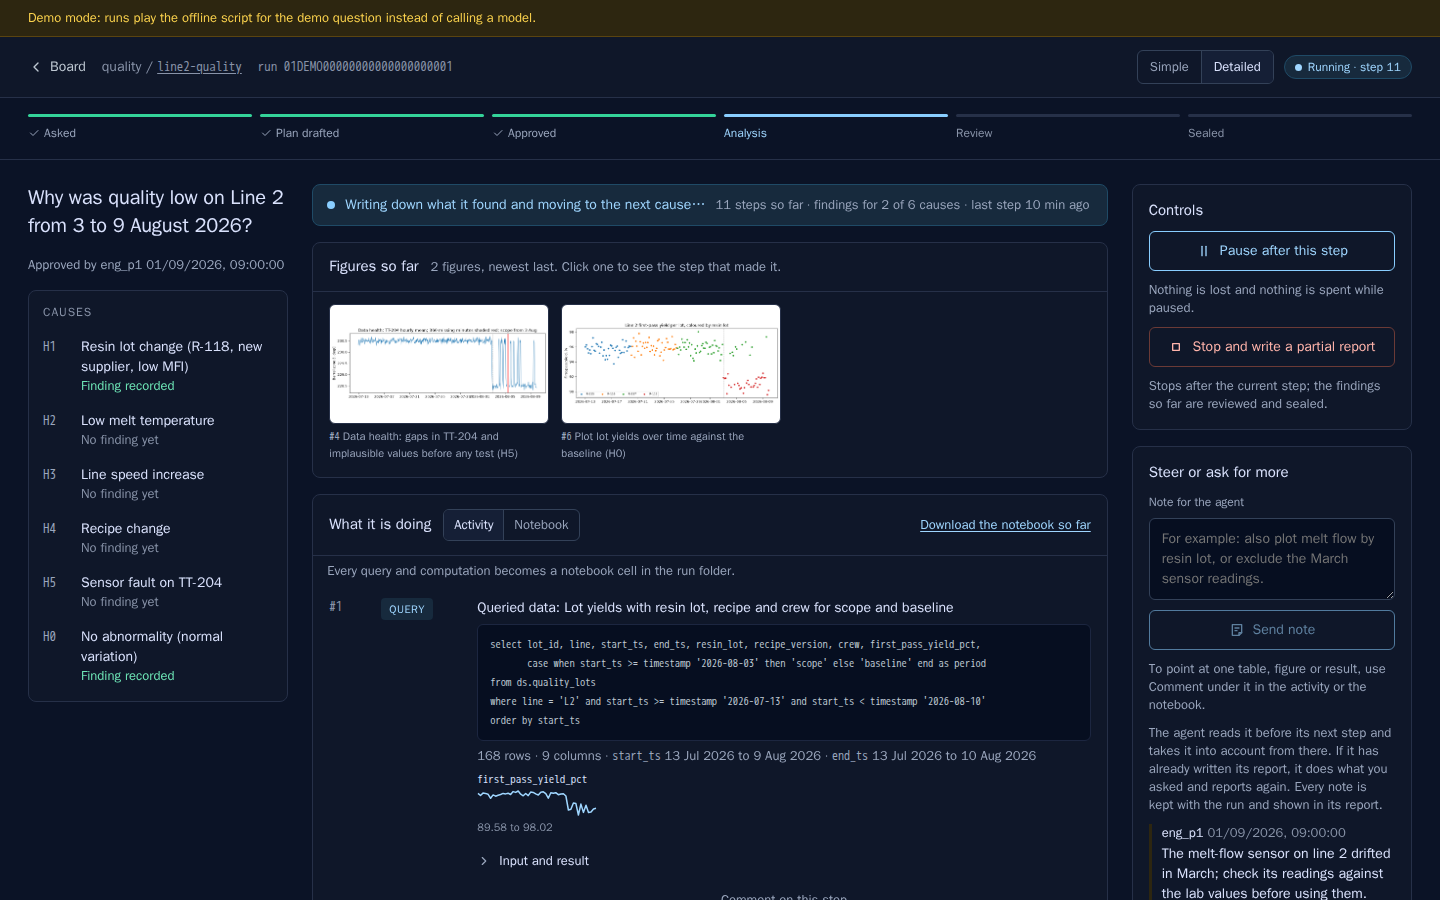
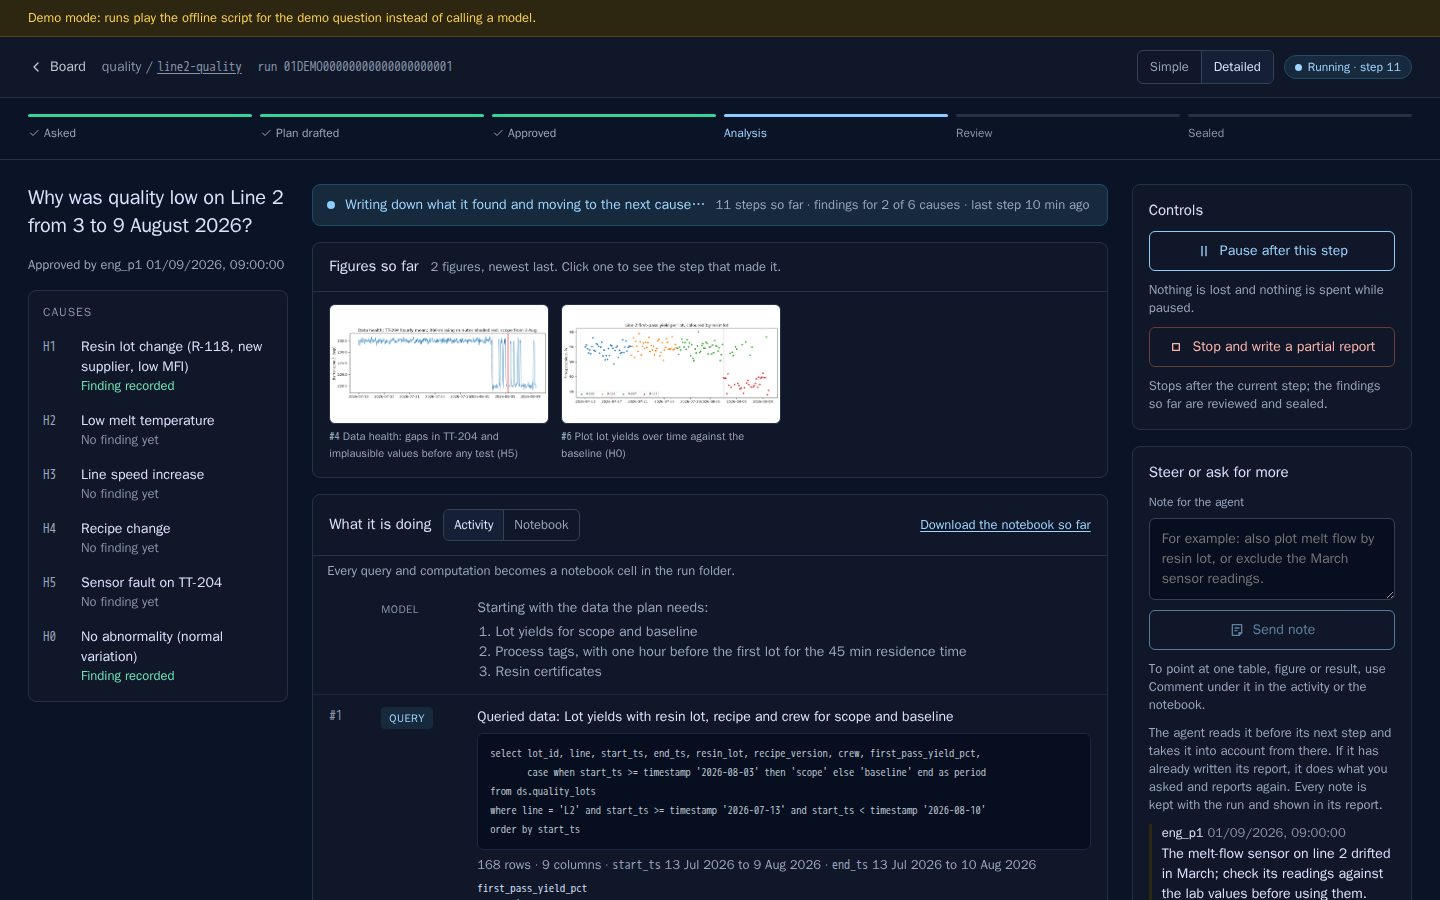
PA-32: Render the agent's markdown and fold debugging steps in the running view (#42)
Task: PA-32 https://kunla.lab.spikinglabs.com/t/SL-PA-32

Claude-Session: https://claude.ai/code/session_01AeC2HbgbeezipGQh5CWY3L

diff --git a/web/src/components/StepList.tsx b/web/src/components/StepList.tsx
@@ -1,4 +1,4 @@
-import { useEffect, useState } from "react";
+import { useEffect, useState, type ReactNode } from "react";
 import type { Step } from "../api";
 import { Code, Collapsible } from "./bits";
 import { QueryPreviewView, StepFigures } from "./Visuals";
@@ -76,27 +76,32 @@ export default function StepList({
   const shown = steps.filter((s) => s.type !== "model" || (s.text && s.text.trim()));
   if (!shown.length && !live) return <p className="muted pad">No steps recorded.</p>;
   let n = 0;
-  return (
-    <ol className="log">
-      {shown.map((s, i) => {
+  const nums = shown.map((s) => (s.type === "tool" ? ++n : n));
+  const items = groupDebugging(shown);
+  const row = (i: number) => {
+        const s = shown[i];
         const kind = kindOf(s);
-        if (s.type === "tool") n += 1;
-        const num = n;
+        const num = nums[i];
         const sql = typeof s.input?.sql === "string" ? (s.input.sql as string).trim() : null;
         const code = typeof s.input?.code === "string" ? (s.input.code as string) : null;
         return (
           <li
             key={i}
-            id={s.type === "tool" && runId ? `step-${n}` : undefined}
+            id={s.type === "tool" && runId ? `step-${num}` : undefined}
             className={`log-row ${s.is_error ? "err" : ""} ${kind === "note" || kind === "steer" ? kind : ""}`}
           >
-            <span className="mono faint small">{s.type === "tool" ? `#${n}` : ""}</span>
+            <span className="mono faint small">{s.type === "tool" ? `#${num}` : ""}</span>
             <span className={`kind k-${kind}`}>
               {simple ? (SIMPLE_KIND[kind] ?? kind) : kind === "note" ? "model" : kind === "steer" ? "person" : kind}
             </span>
             <div className="log-body">
               <div className={kind === "note" ? "muted" : kind === "steer" ? "steer-text" : ""}>
-                {describe(s)}
+                {s.type === "model" && s.html ? (
+                  // Sanitised on the server (safehtml.py), the same way as the conclusion.
+                  <div className="step-md" dangerouslySetInnerHTML={{ __html: s.html }} />
+                ) : (
+                  describe(s)
+                )}
                 {s.is_error && (
                   <>
                     {" "}
@@ -137,7 +142,18 @@ export default function StepList({
             </div>
           </li>
         );
-      })}
+  };
+  return (
+    <ol className="log">
+      {items.map((it) =>
+        typeof it === "number" ? (
+          row(it)
+        ) : (
+          <DebugGroup key={`g${it[0]}`} rows={it} steps={shown} nums={nums} simple={simple} working={live && it[it.length - 1] === shown.length - 1}>
+            {it.map(row)}
+          </DebugGroup>
+        ),
+      )}
       {live && (
         <li className="log-live" aria-live="polite">
           <span className="live-dot" aria-hidden="true" />
@@ -145,6 +161,71 @@ export default function StepList({
         </li>
       )}
     </ol>
+  );
+}
+
+/** Indexes of the steps, with each stretch of debugging as one group: a step that did not work, and what follows it
+ * until a step works again (more failed attempts and the agent's notes on fixing them). A person's note ends a
+ * stretch, so it is never hidden. */
+export function groupDebugging(steps: Step[]): (number | number[])[] {
+  const out: (number | number[])[] = [];
+  let group: number[] | null = null;
+  steps.forEach((s, i) => {
+    if (group && (s.type === "model" || (s.type === "tool" && s.is_error))) group.push(i);
+    else if (s.type === "tool" && s.is_error) out.push((group = [i]));
+    else {
+      group = null;
+      out.push(i);
+    }
+  });
+  // Notes the agent wrote after its last failed attempt belong to the steps that follow, not to the debugging.
+  return out.flatMap((g) => {
+    if (typeof g === "number") return [g];
+    let end = g.length;
+    while (end > 1 && steps[g[end - 1]].type === "model") end -= 1;
+    return [g.slice(0, end), ...g.slice(end)];
+  });
+}
+
+/** A stretch of debugging, folded to one line until someone opens it: most readers only need to know that a step
+ * failed and the agent fixed it; the attempts themselves are for advanced users. */
+function DebugGroup({
+  rows,
+  steps,
+  nums,
+  simple,
+  working,
+  children,
+}: {
+  rows: number[];
+  steps: Step[];
+  nums: number[];
+  simple: boolean;
+  working: boolean;
+  children: ReactNode;
+}) {
+  const [open, setOpen] = useState(false);
+  const failed = rows.filter((i) => steps[i].type === "tool");
+  const first = nums[failed[0]];
+  const last = nums[failed[failed.length - 1]];
+  const label = `${failed.length} attempt${failed.length === 1 ? "" : "s"} that did not work`;
+  return (
+    <li className={`log-debug ${open ? "open" : ""}`}>
+      <div className="log-row debug-head">
+        <span className="mono faint small">{first === last ? `#${first}` : `#${first}–${last}`}</span>
+        <span className="kind k-debug">{simple ? "retry" : "debug"}</span>
+        <div className="log-body">
+          <div className="muted">
+            {label}
+            {working ? ". The agent is fixing it now." : ". The agent fixed it and carried on."}
+          </div>
+          <button type="button" className="link small" aria-expanded={open} onClick={() => setOpen(!open)}>
+            {open ? "Hide the debugging" : `Show the debugging (${rows.length} step${rows.length === 1 ? "" : "s"})`}
+          </button>
+        </div>
+      </div>
+      {open && <ol className="log debug-body">{children}</ol>}
+    </li>
   );
 }
 

diff --git a/web/src/styles.css b/web/src/styles.css
@@ -682,6 +682,26 @@ iframe.report { width: 100%; height: 75vh; border: 1px solid var(--line); border
 .nbmd p { margin: 6px 0; }
 .nb-h { font-size: 17px; margin: 14px 0 6px; }
 
+/* A stretch of failed attempts in the activity log, folded until someone opens it. */
+.log-debug { list-style: none; border-bottom: 1px solid var(--line-soft); }
+.log-debug .debug-head { border-bottom: 0; }
+.log-debug .debug-head .link { align-self: start; }
+.log-debug.open .debug-body { margin: 0 0 8px 16px; border-left: 2px solid var(--line); }
+.kind.k-debug { background: var(--panel-2); color: var(--muted); }
+
+/* The model's own text in the activity log, rendered from markdown. */
+.step-md > :first-child { margin-top: 0; }
+.step-md > :last-child { margin-bottom: 0; }
+.step-md p, .step-md ul, .step-md ol, .step-md pre, .step-md blockquote, .step-md table { margin: 4px 0; }
+.step-md ul, .step-md ol { padding-left: 1.3em; }
+.step-md h1, .step-md h2, .step-md h3, .step-md h4, .step-md h5, .step-md h6 { font-size: 15px; margin: 8px 0 2px; color: var(--text); }
+.step-md code { font-family: var(--mono); font-size: 0.92em; background: var(--panel-2); padding: 0 4px; border-radius: 3px; }
+.step-md pre { overflow-x: auto; background: var(--panel-2); padding: 6px 8px; border-radius: 4px; }
+.step-md pre code { background: none; padding: 0; }
+.step-md blockquote { border-left: 3px solid var(--line); padding-left: 8px; }
+.step-md table { border-collapse: collapse; font-size: 13px; display: block; overflow-x: auto; }
+.step-md th, .step-md td { border-bottom: 1px solid var(--line); padding: 2px 8px; text-align: left; }
+
 /* "Comment on this step" under each step of the activity log, while the agent takes notes. */
 .log-body .step-comment { display: block; margin-top: 4px; color: var(--muted); }
 .log-body .step-comment:hover:not(:disabled) { color: var(--accent-text); }

diff --git a/web/src/api.ts b/web/src/api.ts
@@ -384,6 +384,8 @@ export interface Step {
   model?: string;
   stop_reason?: string;
   text?: string;
+  /** A model step's markdown as sanitised HTML (made by the server, like the conclusion). */
+  html?: string;
   usage?: { input_tokens: number; output_tokens: number };
 }
 

diff --git a/src/alchemist/demo/script.py b/src/alchemist/demo/script.py
@@ -32,7 +32,9 @@ PLAN = {
 }
 
 PLAN_TURNS = [
-    [("search_catalog", {"query": "line 2 first pass yield lots resin"}),
+    [("text", "To plan this I need to know **which data covers Line 2** and what the plant already knows about low yield:\n\n"
+              "- lot yields and resin lots\n- historian tags for melt temperature and line speed\n- past investigations and the FMEA"),
+     ("search_catalog", {"query": "line 2 first pass yield lots resin"}),
      ("search_catalog", {"query": "line 2 historian barrel temperature line speed"}),
      ("search_knowledge", {"query": "low first-pass yield line 2 causes voids"})],
     [("search_knowledge", {"query": "melt temperature window resin MFI"})],
@@ -120,7 +122,9 @@ print("non-R-118 lots in scope:", int((in_scope.resin_lot != "R-118").sum()))"""
 FPY = "first_pass_yield_pct"
 
 ANALYSIS_TURNS = [
-    [("run_query", {"sql": Q_LOTS, "purpose": "Lot yields with resin lot, recipe and crew for scope and baseline"}),
+    [("text", "Starting with the data the plan needs:\n\n1. **Lot yields** for scope and baseline\n"
+              "2. **Process tags**, with one hour before the first lot for the 45 min residence time\n3. **Resin certificates**"),
+     ("run_query", {"sql": Q_LOTS, "purpose": "Lot yields with resin lot, recipe and crew for scope and baseline"}),
      ("run_query", {"sql": Q_PROC, "purpose": "One-minute process tags, including one hour before the first lot"}),
      ("run_query", {"sql": Q_RESIN, "purpose": "Resin lot certificates"})],
     [("run_python", {"code": HEALTH, "purpose": "Data health: gaps in TT-204 and implausible values before any test (H5)"}),
@@ -135,7 +139,9 @@ ANALYSIS_TURNS = [
     [("record_finding", {"hypothesis": "H1", "statement": "How much lower first-pass yield was on R-118 lots than on other lots in the same week.",
                          "value_expression": "round(-pg_p3['diff'], 2)", "unit": "percentage points", "verdict": "supported",
                          "confidence": "high", "evidence": ["q1", "q3", "FMEA-L2", "PI-2025-07"]})],
-    [("penguineer_align", {"data": "q2", "lots": "q1", "tags": ["barrel_temp_c", "line_speed_mpm"], "dead_time_min": 45}),
+    [("text", "R-118 lots explain most of the drop. Next, the **mechanism** and the other causes:\n\n"
+              "- align `barrel_temp_c` to lots with the 45 min dead time (H2)\n- compare line speed (H3) and recipe versions (H4)"),
+     ("penguineer_align", {"data": "q2", "lots": "q1", "tags": ["barrel_temp_c", "line_speed_mpm"], "dead_time_min": 45}),
      ("penguineer_compare", {"data": "p4", "value": "barrel_temp_c", "group": "resin_lot", "a": "R-118", "where": ["period=scope"]}),
      ("penguineer_compare", {"data": "p4", "value": "line_speed_mpm", "group": "period", "a": "scope", "b": "baseline"}),
      ("run_python", {"code": ALIGNED, "purpose": "Plot yield against aligned melt temperature; count new recipe versions (H2, H4)"})],
@@ -151,7 +157,10 @@ ANALYSIS_TURNS = [
      ("record_finding", {"hypothesis": "H5", "statement": "Critical data faults penguineer's data health check found on the process tags: one gap in TT-204 on 5 August, too short to explain a week-long drop.",
                          "value_expression": "pg_p1['counts']['critical']", "unit": "critical data faults", "verdict": "refuted",
                          "confidence": "high", "evidence": ["q2", "work/penguineer/p1/runs/health.json"]})],
-    [("run_python", {"code": CREW_CHECK, "purpose": "Check the R-118 effect holds within each crew (confounding by crew)"})],
+    [("text", "One more check before the review: does the **R-118 effect hold within each crew**?"),
+     ("run_query", {"sql": "select lot_id, crew_id from ds.quality_lots where line = 'L2'",
+                    "purpose": "Crew of each Line 2 lot"}),
+     ("run_python", {"code": CREW_CHECK, "purpose": "Check the R-118 effect holds within each crew (confounding by crew)"})],
     [("finish_analysis", {"summary": "R-118 lots explain the yield drop; melt temperature ran low on those lots, consistent with low MFI. Speed and recipe unchanged; TT-204 gap on 5 Aug excluded."})],
     [("build_report", {
         "title": "Line 2 first-pass yield, 3 to 9 August 2026",

diff --git a/src/alchemist/agent.py b/src/alchemist/agent.py
@@ -4,6 +4,24 @@ Alchemist supplies the tools (catalog, SQL, the notebook, knowledge) and the run
 from settings, the transcript in the run folder, checkpoints, pauses and steering notes.
 """
 
-from penguineer.agent.loop import Budget, Model, ScriptedModel, ScriptedText, ToolOutput, run_loop, strip_images
+from penguineer.agent.loop import Budget, Model, ScriptedText, ToolOutput, run_loop, strip_images
+from penguineer.agent.loop import ScriptedModel as _ScriptedModel
 
 __all__ = ["Budget", "Model", "ScriptedModel", "ScriptedText", "ToolOutput", "run_loop", "strip_images"]
+
+
+class ScriptedModel(_ScriptedModel):
+    """penguineer's scripted model, where a turn may also hold `("text", markdown)`: what the model says before its tool
+    calls, as a real model does, so the offline demo shows the agent's notes too."""
+
+    def create(self, *, system: str, tools: list[dict], messages: list[dict]) -> dict:
+        if self.i >= len(self.turns):
+            return super().create(system=system, tools=tools, messages=messages)
+        turn = self.turns[self.i]
+        self.i += 1
+        content = [{"type": "text", "text": inp} if name == "text" else
+                   {"type": "tool_use", "id": f"toolu_s{self.i}_{k}", "name": name, "input": inp}
+                   for k, (name, inp) in enumerate(turn)]
+        calls = any(c["type"] == "tool_use" for c in content)
+        return {"content": content, "stop_reason": "tool_use" if calls else "end_turn",
+                "usage": {"input_tokens": 0, "output_tokens": 0}}

diff --git a/tests/test_server.py b/tests/test_server.py
@@ -325,3 +325,23 @@ def test_snapshot_paths_stay_in_the_run(client, svc, finished):
     finally:
         f.write_text(before)
         f.chmod(mode)
+
+
+def test_model_steps_render_markdown_safely(tmp_path):
+    """Model text in the activity log comes with sanitised HTML: markdown renders, injected HTML does not."""
+    import json as _json
+
+    from alchemist.api.runs import _transcript_steps
+
+    text = ("## Plan\n\n- check **R-118**\n- compare `temp`\n\n| a | b |\n|---|---|\n| 1 | 2 |\n\n"
+            "<script>fetch('/api/admin')</script><img src=x onerror=alert(1)> [x](javascript:alert(1))")
+    t = tmp_path / "transcript.jsonl"
+    t.write_text(_json.dumps({"at": 1, "model": "m", "message": {"content": [{"type": "text", "text": text}]}}) + "\n"
+                 + _json.dumps({"at": 2, "model": "m", "message": {"content": []}}) + "\n")
+    first, empty = _transcript_steps(t)
+    assert first["text"] == text  # the raw text stays for notes and copying
+    html = first["html"]
+    assert "<h2>Plan</h2>" in html and "<li>check <strong>R-118</strong></li>" in html and "<code>temp</code>" in html
+    assert "<table>" in html
+    assert "<script" not in html and "onerror" not in html and "<img" not in html and "javascript:" not in html
+    assert empty["html"] == ""

diff --git a/src/alchemist/api/runs.py b/src/alchemist/api/runs.py
@@ -73,6 +73,9 @@ def _summary(svc, me, row: dict) -> dict:
     return out
 
 
+STEP_MARKDOWN = ["tables", "fenced_code", "sane_lists"]
+
+
 def _transcript_steps(path) -> list[dict]:
     """Model turns and tool calls from a transcript, in the shape the live view shows."""
     p = as_path(path)
@@ -95,8 +98,12 @@ def _transcript_steps(path) -> list[dict]:
                           **({"meta": e["meta"]} if e.get("meta") else {})})
         elif "model" in e:
             texts = [b.get("text", "") for b in e["message"]["content"] if b.get("type") == "text"]
+            text = "\n".join(t for t in texts if t)[:2000]
+            # The model writes markdown; `html` is it rendered and sanitised like the conclusion, so the page can show
+            # headings, lists and tables without trusting model text as HTML.
             steps.append({"at": e["at"], "type": "model", "model": e["model"], "stop_reason": e.get("stop_reason"),
-                          "usage": e.get("usage"), "text": "\n".join(t for t in texts if t)[:2000]})
+                          "usage": e.get("usage"), "text": text,
+                          "html": markdown_html(text, extensions=STEP_MARKDOWN) if text.strip() else ""})
     return steps
 
 

diff --git a/docs/ui-tour.md b/docs/ui-tour.md
@@ -64,7 +64,7 @@ Every question in the workspace sits in the column of its stage. A drafted plan 
 
 ### Running
 
-Each query, computation and finding appears as it happens, with the causes that already have findings and the run's limits. Pause and Stop each say what they will do. Steer the agent leaves it a note, such as a sensor you know drifted; the agent reads it before its next step, and each note shows whether it has been read.
+Each query, computation and finding appears as it happens, with the causes that already have findings and the run's limits. What the agent says between steps is shown as formatted text (lists, tables, code), cleaned the same way as the conclusion. Pause and Stop each say what they will do. Steer the agent leaves it a note, such as a sensor you know drifted; the agent reads it before its next step, and each note shows whether it has been read.
 
 ![Running](assets/ui/running-light.png#only-light)
 ![Running](assets/ui/running-dark.png#only-dark)
@@ -163,6 +163,16 @@ Models, prompt hash, packages and the seal; verify it or download the run folder
 
 ![Report: Provenance](assets/ui/report-provenance-light.png#only-light)
 ![Report: Provenance](assets/ui/report-provenance-dark.png#only-dark)
+
+### Agent steps and debugging
+
+When a step does not work (a query naming a column that does not exist, say), the agent sees the error and tries again. Those attempts are folded into one line, here and on the running page, so the story stays readable; Show the debugging opens them for advanced users.
+
+![Agent steps with a failed attempt folded](assets/ui/report-steps-debugging-light.png#only-light)
+![Agent steps with a failed attempt folded](assets/ui/report-steps-debugging-dark.png#only-dark)
+
+![Agent steps with the debugging opened](assets/ui/report-steps-debugging-open-light.png#only-light)
+![Agent steps with the debugging opened](assets/ui/report-steps-debugging-open-dark.png#only-dark)
 
 ### Replay
 
